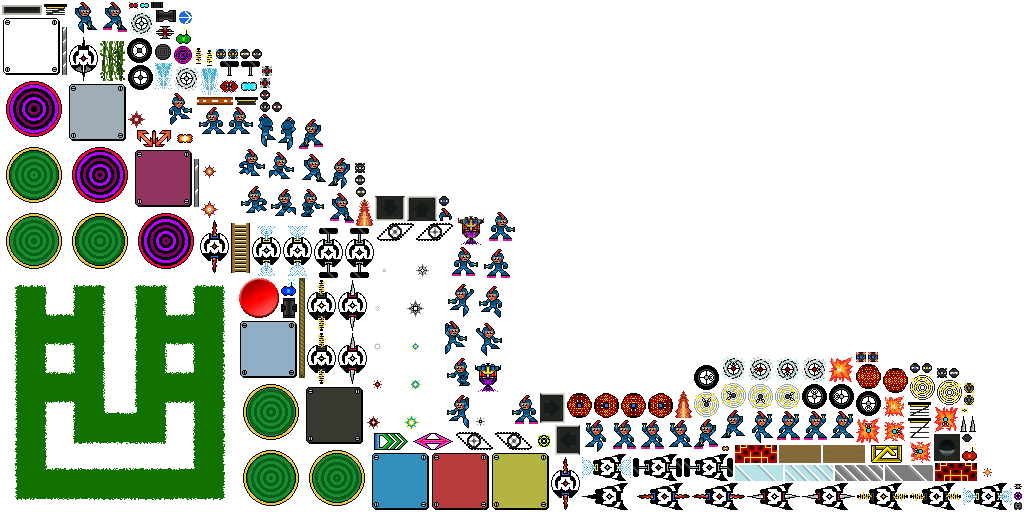
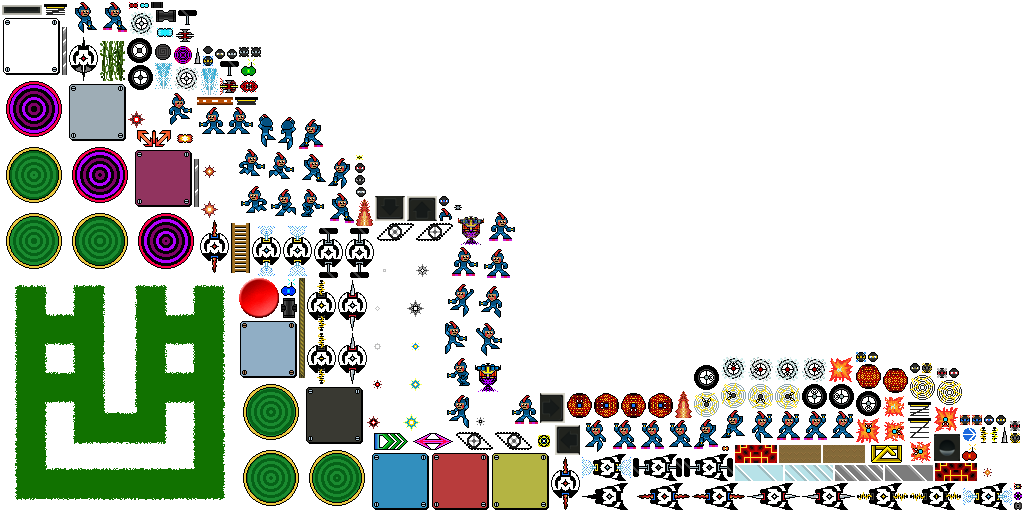
implemented hybrid shot and blast

diff --git a/core/src/com/udacity/gamedev/gigagal/util/Assets.java b/core/src/com/udacity/gamedev/gigagal/util/Assets.java
@@ -241,6 +241,8 @@ public final class Assets implements Disposable, AssetErrorListener {
         public final AtlasRegion solidBlast;
         public final AtlasRegion psychicShot;
         public final AtlasRegion psychicBlast;
+        public final AtlasRegion hybridShot;
+        public final AtlasRegion hybridBlast;
 
         public AmmoAssets(TextureAtlas atlas) {
             nativeShot = atlas.findRegion(Constants.SHOT_NATIVE_SPRITE);
@@ -257,6 +259,8 @@ public final class Assets implements Disposable, AssetErrorListener {
             solidBlast = atlas.findRegion(Constants.BLAST_SOLID_SPRITE);
             psychicShot = atlas.findRegion(Constants.SHOT_PSYCHIC_SPRITE);
             psychicBlast = atlas.findRegion(Constants.BLAST_PSYCHIC_SPRITE);
+            hybridShot = atlas.findRegion(Constants.SHOT_HYBRID_SPRITE);
+            hybridBlast = atlas.findRegion(Constants.BLAST_HYBRID_SPRITE);
         }
     }
 

diff --git a/core/src/com/udacity/gamedev/gigagal/entities/Ammo.java b/core/src/com/udacity/gamedev/gigagal/entities/Ammo.java
@@ -112,6 +112,15 @@ public final class Ammo implements IndestructibleHazard {
                     region = Assets.getInstance().getAmmoAssets().psychicShot;
                 }
                 break;
+            case HYBRID:
+                damage = Constants.SPIKE_DAMAGE * 2;
+                knockback = Constants.ZOOMBA_KNOCKBACK;
+                if (ammoIntensity == AmmoIntensity.BLAST) {
+                    region = Assets.getInstance().getAmmoAssets().hybridBlast;
+                } else {
+                    region = Assets.getInstance().getAmmoAssets().hybridShot;
+                }
+                break;
             default:
                 damage = Constants.AMMO_STANDARD_DAMAGE;
                 knockback = Constants.ZOOMBA_KNOCKBACK;

diff --git a/core/src/com/udacity/gamedev/gigagal/entities/Swoopa.java b/core/src/com/udacity/gamedev/gigagal/entities/Swoopa.java
@@ -106,7 +106,7 @@ public class Swoopa implements DestructibleHazard {
     @Override public final int getKillScore() { return Constants.SWOOPA_KILL_SCORE; }
     @Override public final int getDamage() { return Constants.SWOOPA_STANDARD_DAMAGE; }
     @Override public final Vector2 getKnockback() { return Constants.SWOOPA_KNOCKBACK; }
-    @Override public Enums.WeaponType getType() { return null; }
+    @Override public Enums.WeaponType getType() { return type; }
     public int getMountDamage() { return Constants.SWOOPA_STANDARD_DAMAGE; }
     public Vector2 getMountKnockback() { return Constants.SWOOPA_KNOCKBACK; }
     public final long getStartTime() { return startTime; }

diff --git a/core/src/com/udacity/gamedev/gigagal/util/Utils.java b/core/src/com/udacity/gamedev/gigagal/util/Utils.java
@@ -185,7 +185,7 @@ public final class Utils {
         || (enemyType == Enums.WeaponType.PLASMA && ammoType == Enums.WeaponType.ORE)
         || (enemyType == Enums.WeaponType.LIQUID && ammoType == Enums.WeaponType.GAS)
         || (enemyType == Enums.WeaponType.GAS && ammoType == Enums.WeaponType.PLASMA)
-        || (ammoType == Enums.WeaponType.ANTIMATTER)) {
+        || (ammoType == Enums.WeaponType.HYBRID)) {
             return Enums.TypeEffectiveness.STRONG;
         }
         return Enums.TypeEffectiveness.NORMAL;

diff --git a/core/src/com/udacity/gamedev/gigagal/util/Constants.java b/core/src/com/udacity/gamedev/gigagal/util/Constants.java
@@ -450,6 +450,8 @@ public final class Constants {
     public static final String BLAST_SOLID_SPRITE = "ammo-blast-solid";
     public static final String SHOT_PSYCHIC_SPRITE = "ammo-shot-psychic";
     public static final String BLAST_PSYCHIC_SPRITE = "ammo-blast-psychic";
+    public static final String SHOT_HYBRID_SPRITE = "ammo-shot-hybrid";
+    public static final String BLAST_HYBRID_SPRITE = "ammo-blast-hybrid";
 
     // Impact
     public static final Vector2 EXPLOSION_CENTER = new Vector2(8, 8);
